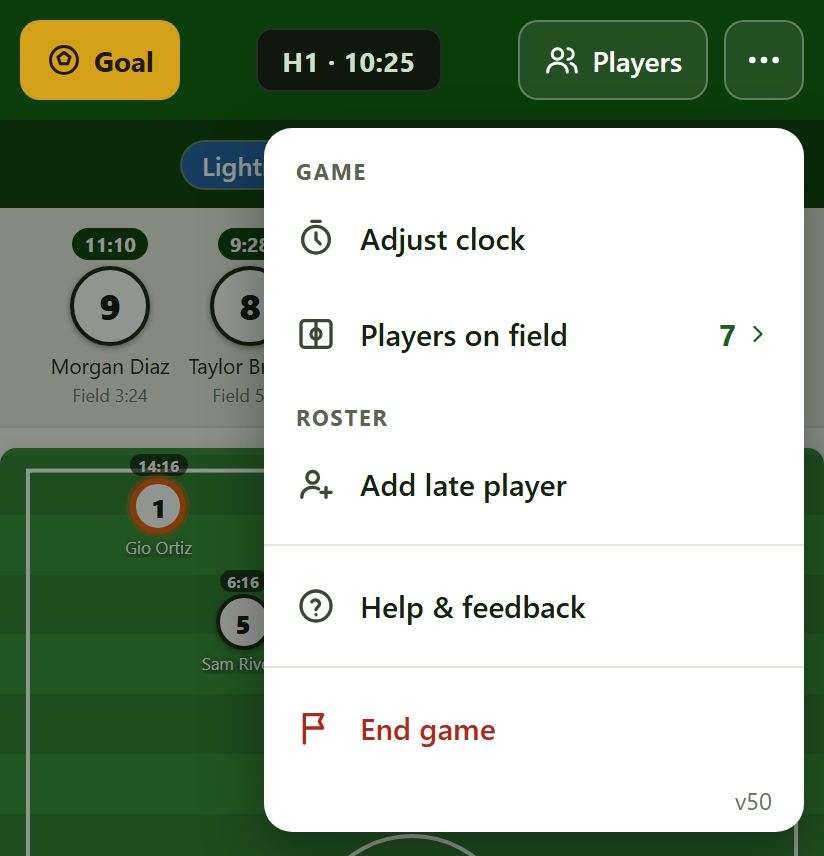
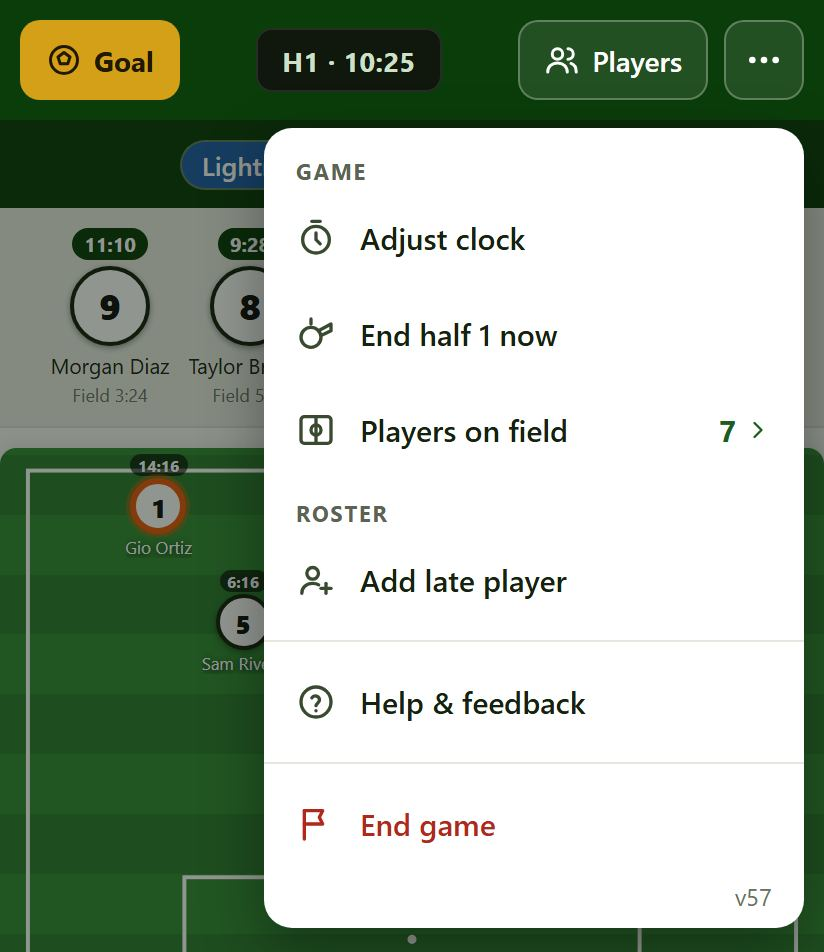
Extra time with manual End Half, sub queue rows with positions
- Halves no longer end automatically at 0:00: the clock turns orange and
  counts extra time, and an End Half / End Game bar appears (with a
  vibration where supported) for the coach to tap at the ref's whistle
- "End half now" in the game menu for halves the ref ends early
- If a half runs more than 10 minutes over, ask how much extra time was
  actually played so a forgotten tap doesn't credit break time
- Sub queue as full-width aligned rows: position badge (line + side),
  player going on, player coming off; swaps also show the second
  player's destination; long names wrap instead of truncating
- Drop the separate Coming off line now that the rows cover it
- Guide text and screenshots updated for both changes
- Bump version to v57

diff --git a/js/app.js b/js/app.js
@@ -966,12 +966,58 @@ const Screens = {
 
     const half = session.half || 1;
 
+    // When the half's scheduled time runs out (null before kickoff / between halves).
+    function scheduledHalfEnd() {
+      if (!session.live || !session.halfStartedAt || !session.halfLengthMinutes) return null;
+      return session.halfStartedAt + session.halfLengthMinutes * 60 * 1000;
+    }
+
+    function inExtraTime(now) {
+      const end = scheduledHalfEnd();
+      return end != null && now >= end;
+    }
+
+    // Counts down to 0:00, then - since the ref's watch decides when a half really ends, not
+    // ours - keeps going as extra time ("+1:23") until the coach taps End Half.
     function halfClockLabel(now) {
       const label = `H${session.half || 1}`;
-      if (!session.live || !session.halfStartedAt || !session.halfLengthMinutes) return label;
-      const halfEndsAt = session.halfStartedAt + session.halfLengthMinutes * 60 * 1000;
-      const remaining = Math.max(0, Math.round((halfEndsAt - now) / 1000));
-      return `${label} · ${formatDuration(remaining)}`;
+      const end = scheduledHalfEnd();
+      if (end == null) return label;
+      if (now >= end) return `${label} · +${formatDuration(Math.floor((now - end) / 1000))}`;
+      return `${label} · ${formatDuration(Math.max(0, Math.round((end - now) / 1000)))}`;
+    }
+
+    // Ends the current half at `when` (default: now) - the ref's whistle, not the countdown.
+    // The last half ends the game, which saves it to the season, so that one asks first. If the
+    // half has run well past its time (the coach most likely forgot to tap End Half at the
+    // whistle), ask how much extra time was really played, so the break doesn't count as play.
+    async function endHalfNow(opts) {
+      const o = opts || {};
+      const now = Date.now();
+      const isLast = (session.half || 1) >= TOTAL_HALVES;
+      const end = scheduledHalfEnd();
+      let endAt = now;
+      if (end != null && now - end > 10 * 60 * 1000) {
+        const overMin = Math.floor((now - end) / 60000);
+        const played = await showNumberPrompt(`How much extra time was played in half ${session.half || 1}?`, {
+          hint: `The clock ran ${overMin} min past full time. Minutes after full time that the half actually ended:`,
+          value: Math.min(5, overMin), min: 0, max: overMin, confirmLabel: isLast ? 'Next' : 'End half',
+        });
+        if (played === null) return;
+        endAt = end + played * 60 * 1000;
+      } else if (o.confirmMessage && !await showConfirm(o.confirmMessage, isLast ? 'End game' : 'End half', isLast)) {
+        return;
+      }
+      if (isLast && !o.confirmMessage && !await showConfirm('End the game? It will be saved to the season history.', 'End game', true)) {
+        return;
+      }
+      endHalf(session, endAt);
+      if (session.half > TOTAL_HALVES) {
+        finishGame();
+      } else {
+        DB.saveSession(session);
+        reloadGameScreen();
+      }
     }
 
     function totalOnField() {
@@ -1019,7 +1065,7 @@ const Screens = {
         ${preKickoff ? `<button id="cancel-setup-btn" class="back-link" type="button" aria-label="Back to ${escapeHtml(team.name)}">${icon('back', 22)}</button>` : ''}
         <button id="goal-btn" class="icon-btn goal-btn" type="button" ${session.live ? '' : 'disabled'}>${icon('goal')} Goal</button>
         <div class="header-center">
-          ${session.live ? `<span id="half-clock" class="half-clock">${halfClockLabel(Date.now())}</span>` : ''}
+          ${session.live ? `<span id="half-clock" class="half-clock ${inExtraTime(Date.now()) ? 'half-clock-extra' : ''}">${halfClockLabel(Date.now())}</span>` : ''}
         </div>
         <button id="info-panel-btn" class="icon-btn" type="button">${icon('players')}<span class="btn-label">Players</span></button>
         <button id="settings-btn" class="icon-btn icon-only" type="button" aria-label="Menu" aria-haspopup="true">${MORE_ICON}</button>
@@ -1028,6 +1074,7 @@ const Screens = {
           <div id="settings-dropdown" class="settings-dropdown">
             <div class="menu-label">Game</div>
             ${session.live ? `<button id="adjust-clock-btn" class="settings-item" type="button">${icon('clock', 20)} Adjust clock</button>` : ''}
+            ${session.live ? `<button id="end-half-menu-btn" class="settings-item" type="button">${icon('whistle', 20)} End half ${session.half || 1} now</button>` : ''}
             <button id="fc-edit-btn" class="settings-item" type="button">${icon('field', 20)} Players on field <span class="menu-value">${session.fieldCount} ${icon('chevron', 14)}</span></button>
             <div class="menu-label">Roster</div>
             <button id="add-late-btn" class="settings-item" type="button">${icon('addPerson', 20)} Add late player</button>
@@ -1095,7 +1142,13 @@ const Screens = {
     // Re-rendered on every drag (not just full-screen reloads), since who's on the field - and
     // therefore whether kickoff is allowed - can change with any drag.
     function renderKickoffBar() {
-      if (session.live) { kickoffContainer.innerHTML = ''; return; }
+      if (session.live) {
+        if (!inExtraTime(Date.now())) { kickoffContainer.innerHTML = ''; return; }
+        const isLast = (session.half || 1) >= TOTAL_HALVES;
+        kickoffContainer.innerHTML = `<button id="end-half-btn" class="kickoff-bar end-half-bar" type="button">&#9632; ${isLast ? 'End Game' : `End Half ${session.half || 1}`}</button>`;
+        kickoffContainer.querySelector('#end-half-btn').addEventListener('click', () => { endHalfNow(); });
+        return;
+      }
       const total = totalOnField();
       const label = (session.half || 1) > 1 ? `Start Half ${session.half}` : 'Kick Off';
       if (total === session.fieldCount) {
@@ -1111,6 +1164,22 @@ const Screens = {
       }
     }
 
+    // A field player's spot, for telling a sub where they're going: the line (ST / AM / DM / DEF,
+    // same labels as the Players panel) plus the side within it, worked out from their place in
+    // the row - one in a row is centre, two are left/right, three add a centre, four split into
+    // left, mid-left, mid-right, right. The goalie is just GK.
+    const ROW_LABELS = ['ST', 'AM', 'DM', 'DEF'];
+    const SIDES_BY_COUNT = [[], ['centre'], ['left', 'right'], ['left', 'centre', 'right'], ['left', 'mid-left', 'mid-right', 'right']];
+    function positionOf(pid) {
+      const p = session.players[pid];
+      if (!p || p.status !== 'field') return null;
+      if (p.isGoalie) return { line: 'GK', side: '' };
+      const ri = FieldLayout.rowIndexOf(session.rows, pid);
+      if (ri == null) return null;
+      const players = session.rows[ri].players;
+      return { line: ROW_LABELS[ri], side: (SIDES_BY_COUNT[players.length] || [])[players.indexOf(pid)] || '' };
+    }
+
     // Re-rendered alongside the kickoff bar for the same reason - who's queued (and against
     // whom) can change on every tap, not just full-screen reloads.
     function renderSubQueue() {
@@ -1122,29 +1191,29 @@ const Screens = {
       // at a glance when the on-field position swaps aren't mixed in between them. Array#sort is
       // stable, so relative order within each group is otherwise untouched.
       const ordered = [...queue].sort((a, b) => Number(isSwapPair(a)) - Number(isSwapPair(b)));
-      // Big "coming off" callout - just the players actually leaving the field (swaps don't count),
-      // as number + first name, for the coach to read out at a glance and shout across the field.
-      const shortLabel = (rp) => (rp ? `#${rp.number || '?'} ${rp.name.split(/\s+/)[0]}` : '(removed)');
-      const comingOff = ordered.filter((pair) => !isSwapPair(pair)).map((pair) => shortLabel(rosterById[pair.offId]));
       subQueueContainer.innerHTML = `
         <div class="sub-queue-bar">
-          ${comingOff.length ? `
-            <div class="coming-off">
-              <span class="coming-off-label">Coming off</span>
-              <span class="coming-off-names">${comingOff.map((n) => `<span class="coming-off-name">${escapeHtml(n)}</span>`).join('')}</span>
-            </div>` : ''}
           <div class="sub-queue-chips">
             ${ordered.map((pair) => {
+              // One row per change, in fixed columns so names line up whatever their length:
+              // [where they're going] [player going in] [for / swap] [player coming off] [x].
+              // The badge is the coming-off player's spot - the one the incoming player (or, for a
+              // swap, the other player) takes over. A swap moves both players, so the second
+              // player's destination (the first player's current spot) goes under their name.
               const off = rosterById[pair.offId];
               const on = rosterById[pair.onId];
               const label = (rp) => rp ? `#${escapeHtml(rp.number || '?')} ${escapeHtml(rp.name)}` : '(removed)';
               const isSwap = isSwapPair(pair);
-              const body = isSwap ? `${label(off)} &harr; ${label(on)}` : `${label(on)} &rarr; for ${label(off)}`;
+              const pos = positionOf(pair.offId);
+              const otherPos = isSwap ? positionOf(pair.onId) : null;
               return `
-                <span class="sub-queue-chip${isSwap ? ' sub-queue-chip-swap' : ''}">
-                  ${body}
+                <div class="sub-queue-chip${isSwap ? ' sub-queue-chip-swap' : ''}">
+                  <span class="sub-queue-pos">${pos ? `<b>${pos.line}</b>${pos.side ? `<small>${pos.side}</small>` : ''}` : ''}</span>
+                  <span class="sub-queue-name">${label(on)}</span>
+                  <span class="sub-queue-joiner">${isSwap ? '&#8644;' : 'for'}</span>
+                  <span class="sub-queue-name">${label(off)}${otherPos ? `<small class="sub-queue-to">to ${otherPos.line}${otherPos.side ? ` ${otherPos.side}` : ''}</small>` : ''}</span>
                   <button class="sub-queue-remove" data-unqueue="${pair.id}" type="button" aria-label="Remove">&times;</button>
-                </span>`;
+                </div>`;
             }).join('')}
           </div>
           <button id="make-subs-btn" class="kickoff-bar sub-queue-execute" type="button">&#8646; Apply ${queue.length} Change${queue.length > 1 ? 's' : ''}</button>
@@ -1302,23 +1371,19 @@ const Screens = {
       const now = Date.now();
 
       if (session.live && session.halfLengthMinutes && session.halfStartedAt) {
-        const halfEndsAt = session.halfStartedAt + session.halfLengthMinutes * 60 * 1000;
-        if (now >= halfEndsAt) {
-          // Half's time is up: freeze everyone's clock exactly at the boundary, leave the
-          // lineup untouched. If that was the last half, there's nothing left to kick off, so
-          // the game ends itself here rather than reloading into a "Start Half 3" that doesn't
-          // exist; otherwise reload the screen (brings back the Kick Off bar for the next half).
-          endHalf(session, halfEndsAt);
-          if (session.half > TOTAL_HALVES) {
-            finishGame();
-          } else {
-            DB.saveSession(session);
-            reloadGameScreen();
-          }
-          return;
-        }
+        // Full time on the countdown doesn't end the half - play goes on until the ref's whistle.
+        // The clock flips to counting extra time, and the End Half bar appears (with one buzz,
+        // where the phone supports it) for the coach to tap when the half really ends.
+        const extra = inExtraTime(now);
         const halfClockEl = App.root.querySelector('#half-clock');
-        if (halfClockEl) halfClockEl.textContent = halfClockLabel(now);
+        if (halfClockEl) {
+          halfClockEl.textContent = halfClockLabel(now);
+          halfClockEl.classList.toggle('half-clock-extra', extra);
+        }
+        if (extra && !kickoffContainer.querySelector('#end-half-btn')) {
+          renderKickoffBar();
+          try { if (navigator.vibrate) navigator.vibrate([200, 100, 200]); } catch (err) { /* not supported */ }
+        }
       }
 
       const needsSubIds = computeSubCandidates(now);
@@ -1673,6 +1738,21 @@ const Screens = {
 
     App.root.querySelector('#help-btn').addEventListener('click', () => showHelpMenu());
 
+    const endHalfMenuBtn = App.root.querySelector('#end-half-menu-btn');
+    if (endHalfMenuBtn) {
+      endHalfMenuBtn.addEventListener('click', () => {
+        const now = Date.now();
+        const end = scheduledHalfEnd();
+        const isLast = (session.half || 1) >= TOTAL_HALVES;
+        const left = end != null && now < end ? ` with ${formatDuration(Math.round((end - now) / 1000))} still on the clock` : '';
+        endHalfNow({
+          confirmMessage: isLast
+            ? `End the game now${left}? It will be saved to the season history.`
+            : `End half ${session.half || 1} now${left}?`,
+        });
+      });
+    }
+
     App.root.querySelector('#fc-edit-btn').addEventListener('click', async () => {
       const n = await showNumberPrompt('Players on field', {
         hint: 'Total, including the goalie (e.g. 7v7 \u2192 7)', value: session.fieldCount, min: 3, max: 15,
@@ -1825,8 +1905,6 @@ const Screens = {
         content.innerHTML = '<p class="empty">No players in this game yet.</p>';
         return;
       }
-
-      const ROW_LABELS = ['ST', 'AM', 'DM', 'DEF'];
 
       content.innerHTML = sorted.map((rp) => {
         const p = session.players[rp.id];

diff --git a/css/styles.css b/css/styles.css
@@ -463,64 +463,61 @@ button.back-link { background: none; border: none; padding: 0; flex-shrink: 0; }
   padding: 10px 12px;
 }
 
-/* The shout-it-out line: who's coming off, big enough to read at arm's length. */
-.coming-off {
-  display: flex;
-  align-items: baseline;
-  flex-wrap: wrap;
-  gap: 4px 12px;
-  margin-bottom: 10px;
-  padding: 8px 12px;
-  background: #fff;
-  border-left: 5px solid #2f6fb0;
-  border-radius: 8px;
-}
-
-.coming-off-label {
-  font-size: 12px;
-  font-weight: 800;
-  letter-spacing: 0.06em;
-  text-transform: uppercase;
-  color: #2f6fb0;
-}
-
-.coming-off-names { display: flex; flex-wrap: wrap; gap: 2px 14px; }
-
-.coming-off-name {
-  font-size: 24px;
-  font-weight: 800;
-  line-height: 1.2;
-  color: var(--ink);
-  white-space: nowrap;
-}
-
 .sub-queue-chips {
   display: flex;
-  flex-wrap: wrap;
+  flex-direction: column;
   gap: 6px;
   margin-bottom: 8px;
 }
 
+/* One full-width row per queued change, all sharing the same fixed columns so the names line up
+   down the list regardless of their length: position | going in | for/swap | coming off | x. */
 .sub-queue-chip {
-  display: inline-flex;
+  display: grid;
+  grid-template-columns: 54px minmax(0, 1fr) 30px minmax(0, 1fr) 30px;
   align-items: center;
-  gap: 6px;
+  column-gap: 6px;
   background: #fff;
   border: 1px solid #2f6fb0;
   color: var(--ink);
-  border-radius: 20px;
-  padding: 4px 6px 4px 10px;
-  font-size: 12.5px;
-  font-weight: 600;
+  border-radius: 10px;
+  padding: 4px;
+  font-size: 16px;
+  font-weight: 700;
+  min-height: 48px;
 }
+
+.sub-queue-pos {
+  align-self: stretch;
+  display: flex;
+  flex-direction: column;
+  align-items: center;
+  justify-content: center;
+  background: #e8f0f9;
+  border-radius: 7px;
+  line-height: 1.1;
+}
+
+.sub-queue-pos b { font-size: 15px; font-weight: 800; color: #1f4f80; }
+.sub-queue-pos small { font-size: 10.5px; font-weight: 700; color: #4a6680; }
+
+/* Long names wrap within their own column rather than being cut off - the name is the thing
+   being read out, so all of it should show; the row just grows a line taller. */
+.sub-queue-name { line-height: 1.2; overflow-wrap: anywhere; padding: 3px 0; }
+
+.sub-queue-to { display: block; font-size: 12px; font-weight: 700; opacity: 0.85; margin-top: 1px; }
+
+.sub-queue-joiner { text-align: center; font-size: 12px; font-weight: 700; color: #6b7462; }
 
 .sub-queue-remove {
   background: none;
   border: none;
   color: #2f6fb0;
-  font-size: 15px;
+  font-size: 20px;
   line-height: 1;
-  padding: 2px 4px;
+  width: 30px;
+  height: 36px;
+  padding: 0;
 }
 
 /* A queued position swap (both players already on the field) instead of a substitution - solid
@@ -531,6 +528,9 @@ button.back-link { background: none; border: none; padding: 0; flex-shrink: 0; }
   color: #fff;
 }
 .sub-queue-chip-swap .sub-queue-remove { color: #fff; }
+.sub-queue-chip-swap .sub-queue-pos { background: rgba(255,255,255,0.18); }
+.sub-queue-chip-swap .sub-queue-pos b, .sub-queue-chip-swap .sub-queue-pos small,
+.sub-queue-chip-swap .sub-queue-joiner { color: #fff; }
 
 .sub-queue-execute { background: #2f6fb0; color: #fff; }
 .sub-queue-execute:active { background: #24578c; }
@@ -1679,3 +1679,14 @@ button.back-link { background: none; border: none; padding: 0; flex-shrink: 0; }
 .welcome-card p { margin: 0 0 16px; font-size: 15px; line-height: 1.45; color: #3a4234; }
 .welcome-card .primary-btn { display: flex; align-items: center; justify-content: center; gap: 8px; }
 .welcome-card .welcome-hint { margin: 12px 0 0; font-size: 13px; color: #6b7462; }
+
+/* --- Extra time: the clock past full time, and the End Half bar in the kickoff bar's slot --- */
+
+.half-clock.half-clock-extra {
+  background: #e8590c;
+  color: #fff;
+  border-color: #e8590c;
+}
+
+.kickoff-bar.end-half-bar { background: #b0281c; color: #fff; }
+.kickoff-bar.end-half-bar:active { background: #8f1f16; }

diff --git a/js/utils.js b/js/utils.js
@@ -181,6 +181,7 @@ const ICON_PATHS = {
   chevron: '<path d="M9 6l6 6-6 6"/>',
   plus: '<path d="M12 5v14M5 12h14"/>',
   close: '<path d="M6 6l12 12M18 6L6 18"/>',
+  whistle: '<circle cx="9" cy="14" r="6"/><path d="M13.5 10L21 6v4l-5 2.5"/><path d="M9 3v3"/>',
   trash: '<path d="M4 7h16"/><path d="M9 7V4h6v3"/><path d="M6 7l1 13h10l1-13"/><path d="M10 11v6M14 11v6"/>',
 };
 
@@ -230,8 +231,7 @@ const GUIDE_SECTIONS = [
     id: 'queue', title: 'Planning subs ahead', img: 'queue',
     intro: 'Tap a bench player, then a field player, to queue a sub. Tap two field players to queue a swap. Tap either again to cancel it.',
     steps: [
-      '<b>Coming off</b> - the names to call out.',
-      'Everything queued. <b>&times;</b> removes one.',
+      'Each change: the position they’re going to, who goes on, who comes off. <b>&times;</b> removes one.',
       '<b>Apply</b> makes all the changes at once (you can undo it).',
       'A badge marks each queued player.',
     ],
@@ -245,6 +245,7 @@ const GUIDE_SECTIONS = [
       'Bench players show their total field time.',
     ],
     legend: true,
+    note: 'At full time the clock keeps going in orange (<b>+1:23</b>) for extra time. Tap <b>End Half</b> when the ref blows the whistle.',
   },
   {
     id: 'goals', title: 'Goals', img: 'goal',
@@ -261,7 +262,7 @@ const GUIDE_SECTIONS = [
   },
   {
     id: 'menu', title: 'The &#8943; menu', img: 'menu',
-    intro: '<b>Adjust clock</b> if kickoff started early or late. Change <b>players on field</b> mid-game. <b>Add late player</b> for someone who just arrived. <b>End game</b> saves it to the season.',
+    intro: '<b>Adjust clock</b> if kickoff started early or late. <b>End half now</b> if the ref ends it early. Change <b>players on field</b> mid-game. <b>Add late player</b> for someone who just arrived. <b>End game</b> saves it to the season.',
   },
   {
     id: 'season', title: 'Season', img: 'season',

diff --git a/js/version.js b/js/version.js
@@ -3,4 +3,4 @@
 // Single source of truth for the app's version - bump this on every deploy. Read by both the
 // page (js/version.js) and the service worker (which pulls it in via importScripts) so the
 // cache name and the version shown in Settings can never drift apart from each other.
-const APP_VERSION = 'v53';
+const APP_VERSION = 'v57';
